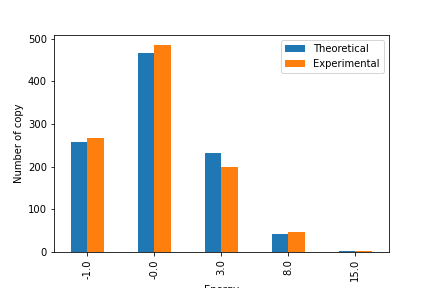
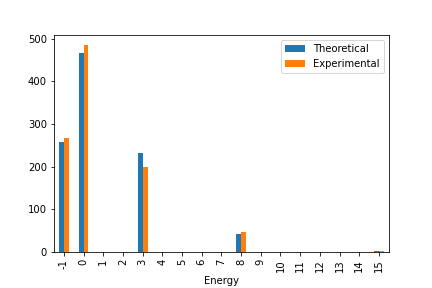
Add distribution information of task4

diff --git a/code/task4.py b/code/task4.py
@@ -14,7 +14,7 @@ from my_lib import *
 trials = 100
 copies = 1000
 a = 0.5
-x_arr = np.array([1, 1, 1, 1, 1, 1])
+# x_arr = np.array([1, 1, 1, 1, 1, 1])
 
 # w_arr = np.array([[0, 0.5, 0.5, 0.5, 0.5, 0.5], # 0 
 #                   [0.5, 0, -2, -2, -2, -2], # 1
@@ -23,13 +23,13 @@ x_arr = np.array([1, 1, 1, 1, 1, 1])
 #                   [0.5, -2, -2, -2, 0, -2],
 #                   [0.5, -2, -2, -2, -2, 0]
 #                   ])# 3
-w_arr = np.array([[0,  1,  1,  1,  1,  1], # 0 
-                  [1,  0, -2, -2, -2, -2], # 1
-                  [1, -2,  0, -2, -2, -2], # 2 
-                  [1, -2, -2,  0, -2, -2],
-                  [1, -2, -2, -2,  0, -2],
-                  [1, -2, -2, -2, -2,  0]
-                  ])
+# w_arr = np.array([[0,  1,  1,  1,  1,  1], # 0 
+#                   [1,  0, -2, -2, -2, -2], # 1
+#                   [1, -2,  0, -2, -2, -2], # 2 
+#                   [1, -2, -2,  0, -2, -2],
+#                   [1, -2, -2, -2,  0, -2],
+#                   [1, -2, -2, -2, -2,  0]
+#                   ])
 # x_arr = np.array([1, 1, 1, 1])
 
 # w_arr = np.array([[0, 1, 1, 1], # 0 
@@ -38,17 +38,17 @@ w_arr = np.array([[0,  1,  1,  1,  1,  1], # 0
 #                   [1, -2, -2, 0]
 #                   ])# 3
 
-# x_arr = np.array([1, 1, 1, 1, 1, 1, 1, 1])
+x_arr = np.array([1, 1, 1, 1, 1, 1, 1, 1])
 
-# w_arr = np.array([[0,  -1,  -1,  -1,  -1,  -1,  -1,  -1], # 0 
-#                   [-1,  0, -2, -3, -4, -2, -3, -4], # 1
-#                   [-1, -2,  0, -4, -5, -6, -1, -2], # 2 
-#                   [-1, -3, -4,  0, -1, -2, -3, -4],
-#                   [-1, -4, -5, -1,  0, -1, -2, -3],
-#                   [-1, -2, -6, -2, -1,  0, -1, -2],
-#                   [-1, -3, -1,  3, -2, -1,  0, -1],
-#                   [-1, -4, -2,  4, -3, -2, -1,  0]
-#                   ])# 
+w_arr = np.array([[0,  -1,  -1,  -1,  -1,  -1,  -1,  -1], # 0 
+                  [-1,  0, -2, -3, -4, -2, -3, -4], # 1
+                  [-1, -2,  0, -4, -5, -6, -1, -2], # 2 
+                  [-1, -3, -4,  0, -1, -2, -3, -4],
+                  [-1, -4, -5, -1,  0, -1, -2, -3],
+                  [-1, -2, -6, -2, -1,  0, -1, -2],
+                  [-1, -3, -1,  3, -2, -1,  0, -1],
+                  [-1, -4, -2,  4, -3, -2, -1,  0]
+                  ])# 
 
 test_list = []
 for i in range(copies):
@@ -102,7 +102,7 @@ for test in test_list:
 #     freq_tab[test.get_result(test.x_arr,test.n)] += 1
 
 df, A = test_list[0].report_energy(energy_tab, freq_tab, test_list[0].n, a, copies)
-E = np.arange(df['Energy'].min(), df['Energy'].max()+0.5, 1)
+E = np.arange(df['Energy'].min(), df['Energy'].max()+1, 0.5)
 N = boltzMan(A, a, E)
 
 # Plot Comparision graph
@@ -113,31 +113,50 @@ ax.set_xlabel("State(decimal)")
 ax.set_ylabel("Number of copy")
 plt.savefig('task4_compare_tri{}_Cop{}_a{}.png'.format(trials, copies, a))
 
-from scipy.interpolate import interp1d
-from scipy import interpolate
+
+
 # Plot histogram graph
+# Ignore state that has same energy
+mean = df.groupby(['Energy']).mean()
+plt.figure()
+mean.plot()
+
 # All data that have same energy
 all_th_ex = df.groupby(['Energy']).sum()
 plt.figure()
-ax = all_th_ex.plot(kind='bar')
+
+
+# from scipy import interpolate
+# from scipy.interpolate import interp1d
+# f1 = interp1d(all_th_ex.index, all_th_ex['Theoretical'],kind='linear')
+# df2 = pd.DataFrame()
+# new_index = np.arange(all_th_ex.index.min(),all_th_ex.index.max()+1)
+# df2['Theoretical'] = f1(new_index)
+
+# df2.index = new_index
+# ax2 = df2.plot(kind='bar')
+# df2.plot(ax=ax2)
+# ax = all_th_ex.plot(kind='bar')
+# all_th_ex.plot(ax = ax)
+
+new = all_th_ex.reindex(range(int(all_th_ex.index.min()),int(all_th_ex.index.max()+1)), fill_value=0)
+new.plot(kind='bar')
 ax.set_xlabel("Energy")
 ax.set_ylabel("Number of copy")
 
-th = interpolate.splev(all_th_ex.index, all_th_ex['Theoretical'])
-
-df2 = pd.DataFrame()
-new_index = np.arange(all_th_ex.index.min(),all_th_ex.index.max())
-df2['Theoretical'] = th(new_index)
-df2.index = new_index
-df2.plot.line()
-
-
-
-all_th_ex.plot(xlim=(all_th_ex.index.min(), all_th_ex.index.max()))
 plt.savefig('task4_histo__tri{}_Cop{}_a{}.png'.format(trials, copies, a))
 
 plt.figure()
+ax2=all_th_ex.plot(xlim=(all_th_ex.index.min(), all_th_ex.index.max()))
+ax2.set_xlabel("Energy")
+ax2.set_ylabel("Number of copy")
+plt.savefig('task4_histo_graph_tri{}_Cop{}_a{}.png'.format(trials, copies, a))
+
+plt.figure()
 plt.plot(E, N)
+plt.suptitle('Boltzman Distribution Graph (A*exp(-aE))')
+plt.xlabel('Energy')
+plt.ylabel('The number of copy')
 
 
 morn_df = test_list[0].report_mornitor(mornitor_tab, test_list[0].n)

diff --git a/README.md b/README.md
@@ -181,7 +181,7 @@ Procedure
 As the result, the energy of RNN always decreases when the neuron updates its state. The convergence state will has a minimum energy. 
 
 ## **Task 4 - RNNs with Boltzmann's Distribution**
-[Boltzmann's Distribution](https://en.wikipedia.org/wiki/Boltzmann_distribution) is can be used measure the number of molecules that have their energy between some amounts of energy. This distribution can be applied to many things included RNN. Gibbs copies is the technique to makes copies of the same RNN.
+[Boltzmann's Distribution](https://en.wikipedia.org/wiki/Boltzmann_distribution) is can be used to measure the number of molecules that have their energy between some amounts of energy. This distribution can be applied to many things included RNN. Gibbs copies is the technique to makes copies of the same RNN.
 ![task4_detail](images/task4_detail.jpg)  
 [Source code](code/task4.py)
 
@@ -190,44 +190,55 @@ Procedure
 1. Make a copy of RNN
 1. Update the state of neuron 1 by 1 for each copy
 1. The experimental result: Collect the number of copies in each state
-1. The theoretical result: Caculate follows Boltzman's distribution for all possible states.
+1. The theoretical result: Calculate follows Boltzman's distribution for all possible states.
 
 #### **Constant Parameters**
 | Input(x) | weight(w) |
 | :----: | :-------|
 |<font size="2"><pre>[1, 1, 1, 1, 1, 1]</pre></font> |<font size="2"><pre>[0,  1,  1,  1,  1,  1],#0<br/>[1,  0, -2, -2, -2, -2],#1<br/>[1, -2,  0, -2, -2, -2],#2<br/>[1, -2, -2,  0, -2, -2],#3<br/>[1, -2, -2, -2,  0, -2],#4<br/>[1, -2, -2, -2, -2,  0] #5</pre></font> |
 
+#### ***<p align="center">Energy table</p>***
+We compute the energy of the RNN in each state and show in this table. After update all of RNNs for many times, we check state of all copies and show in this table, so we can know that how many copies in each state.
 #### **Test Results**
-#### ***<p align="center">Energy table: To shows the energy in each state</p>***
-
 | # of Trials | # of Copies | Gain(a) | Energy table
 | :---- | :------- | :------- | :----: |
 | 1000 | 1000 | 0.5 |<img src="images/task4_1000x1000_table.jpg" width="350"> |
-#### ***<p align="center">Comparing graph: To compare the theoretical and the experimental result</p>***
-
+#### ***<p align="center">Distribution graph</p>***
+This graph is to check the distribution of the number of copies that have their energy in some amounts of energy. From the Boltzmann's theory, the distribution should follows `A*exp(-aE)` which show in the figture below.  
+<img src="images/task4_Boltzman_base.png" width="300">
+#### **Test Results**
 ##### **Adjust Trials and Copies**
-| # of Trials | # of Copies | Gain(a) | Histogram of energy | Comparison graph
-| :---- | :------- | :-------: | :----: | :----: |
-| 100 | 100 | 0.5 | ![task4_histo__tri100_Cop100_a0.5](images/task4_histo__tri100_Cop100_a0.5.png) | ![task4_compare_tri100_Cop100_a0.5](images/task4_compare_tri100_Cop100_a0.5.png) 
-| 100 | 1000 | 0.5 |![task4_histo__tri100_Cop1000_a0.5](images/task4_histo__tri100_Cop1000_a0.5.png) | ![task4_compare_tri100_Cop1000_a0.5](images/task4_compare_tri100_Cop1000_a0.5.png) 
-| 1000 | 1000 | 0.5 |![task4_histo__tri1000_Cop1000_a0.5](images/task4_histo__tri1000_Cop1000_a0.5.png) | ![task4_compare_tri1000_Cop1000_a0.5](images/task4_compare_tri1000_Cop1000_a0.5.png)
+| Distribution of energy (graph) | Distribution of energy (Histogram)  | The number of a copy in each state
+| :---- | :------- | :-------: |
+|Trials = 100, Copies =  100, Gain(a) = 0.5| | |
+| ![task4_histo_graph_tri100_Cop100_a0.5](images/task4_histo_graph_tri100_Cop100_a0.5.png) | ![task4_histo__tri100_Cop100_a0.5](images/task4_histo__tri100_Cop100_a0.5.png) | ![task4_compare_tri100_Cop100_a0.5](images/task4_compare_tri100_Cop100_a0.5.png) 
+|Trials = 100, Copies = 1000, Gain(a) = 0.5| | |
+| ![task4_histo_graph_tri100_Cop1000_a0.5](images/task4_histo_graph_tri100_Cop1000_a0.5.png)  |![task4_histo__tri100_Cop1000_a0.5](images/task4_histo__tri100_Cop1000_a0.5.png) | ![task4_compare_tri100_Cop1000_a0.5](images/task4_compare_tri100_Cop1000_a0.5.png) 
+|Trials = 1000, Copies = 1000, Gain(a) = 0.5| | |
+| ![task4_histo_graph_tri1000_Cop1000_a0.5](images/task4_histo_graph_tri1000_Cop1000_a0.5.png) |![task4_histo__tri1000_Cop1000_a0.5](images/task4_histo__tri1000_Cop1000_a0.5.png) | ![task4_compare_tri1000_Cop1000_a0.5](images/task4_compare_tri1000_Cop1000_a0.5.png)
 
 ##### **Adjust gain**
-| # of Trials | # of Copies | Gain(a) | Histogram of energy | Comparison graph
-| :---- | :------- | :-------: | :----: | :----: |
-| 1000 | 1000 | 0.2 |![task4_histo__tri1000_Cop1000_a0.2](images/task4_histo__tri1000_Cop1000_a0.2.png) | ![task4_compare_tri1000_Cop1000_a0.2](images/task4_compare_tri1000_Cop1000_a0.2.png) 
-| 1000 | 1000 | 1.0 |![task4_histo__tri1000_Cop1000_a1.0](images/task4_histo__tri1000_Cop1000_a1.0.png) | ![task4_compare_tri1000_Cop1000_a1.0](images/task4_compare_tri1000_Cop1000_a1.0.png) 
-| 1000 | 1000 | 1.5 |![task4_histo__tri1000_Cop1000_a1.5](images/task4_histo__tri1000_Cop1000_a1.5.png) | ![task4_compare_tri1000_Cop1000_a1.5](images/task4_compare_tri1000_Cop1000_a1.5.png)
+| Distribution of energy (graph) | Distribution of energy (Histogram)  | The number of a copy in each state
+| :---- | :------- | :-------: |
+|Trials = 1000, Copies =  1000, Gain(a) = 0.2| | |
+| ![task4_histo_graph_tri1000_Cop1000_a0.2](images/task4_histo_graph_tri1000_Cop1000_a0.2.png) | ![task4_histo__tri1000_Cop1000_a0.2](images/task4_histo__tri1000_Cop1000_a0.2.png) | ![task4_compare_tri1000_Cop1000_a0.2](images/task4_compare_tri1000_Cop1000_a0.2.png) 
+|Trials = 1000, Copies = 1000, Gain(a) = 1.0| | |
+| ![task4_histo_graph_tri1000_Cop1000_a1.0](images/task4_histo_graph_tri1000_Cop1000_a1.0.png)  |![task4_histo__tri1000_Cop1000_a1.0](images/task4_histo__tri1000_Cop1000_a1.0.png) | ![task4_compare_tri1000_Cop1000_a1.0](images/task4_compare_tri1000_Cop1000_a1.0.png) 
+|Trials = 1000, Copies = 1000, Gain(a) = 1.5| | |
+| ![task4_histo_graph_tri1000_Cop1000_a1.5](images/task4_histo_graph_tri1000_Cop1000_a1.5.png) |![task4_histo__tri1000_Cop1000_a1.5](images/task4_histo__tri1000_Cop1000_a1.5.png) | ![task4_compare_tri1000_Cop1000_a1.5](images/task4_compare_tri1000_Cop1000_a1.5.png)
 
 #### ***<p align="center">Try with author's RNN defined in Task 3</p>***
-| # of Trials | # of Copies | Gain(a) | Histogram of energy | Comparison graph
-| :---- | :------- | :------- | :----: | :----: |
-| 100 | 1000 | 0.5 |![task4_histo__tri100_Cop1000_a0.5_user](images/task4_histo__tri100_Cop1000_a0.5_user.png) |![task4_compare_tri100_Cop1000_a0.5_user](images/task4_compare_tri100_Cop1000_a0.5_user.png) 
+| Distribution of energy (graph) | Distribution of energy (Histogram)  | The number of a copy in each state
+| :---- | :------- | :-------: |
+|Trials = 100, Copies =  1000, Gain(a) = 0.5| | |
+| ![task4_histo_graph_tri100_Cop1000_a0.5_user](images/task4_histo_graph_tri100_Cop1000_a0.5_user.png) |![task4_histo__tri100_Cop1000_a0.5_user](images/task4_histo__tri100_Cop1000_a0.5_user.png) |![task4_compare_tri100_Cop1000_a0.5_user](images/task4_compare_tri100_Cop1000_a0.5_user.png) 
 
 <p align='center'><img src="images/task4_100x1000_user_table.png"></p>
 
 #### **Summary**
-As the result, the experimental result and the theoretical result is going to the same way. When we increase the number of copies, the result is more closer. The increasing of the number of trials also effects the result, but it not that much.  
+From the distribution of a energy graph, when the gain is small number, the result is different from `A*exp(-aE)` graph. The test results are less number of copies in the beginning. From the energy table, the lowest energy (-1.0) will has the most number of copies, but the state that has this energy is not enough, so the number of copies in these amounts of energy are not maximum. If we check only the number of copies in energy by ignore the state that has same energy, then the result from testing will follow `A*exp(-aE)` as shown in the figure below.  In the other hand, if the gain is large number, the result is nearly to `A*exp(-aE)`  
+<img src="images/task4_distri_mean.png" width="250">   
+The experimental result and the theoretical result is going to the same way. When we increase the number of copies, the result is more closer. The increasing of the number of trials also effects the result, but it not that much.  
 The Changing of gain also effects to the result. The more gain makes the result closer, but the distribution of result will be decreased.  
 For my opinion, the most suitable parameters is ``` Trials = 1000, Copies = 1000, Gain = 0.5```  
 As the result of energy, the most of experimental result will have the lowest energy. Thus, we can predict the equilibrium state from an energy. If the energy is low, it is more likely to be equilibrium state.
@@ -251,7 +262,7 @@ As the result of energy, the most of experimental result will have the lowest en
 | 1.0 | ![task4_equi_10_TAB](images/task4_equi_10_TAB.png) | ![task4_equi_1.0](images/task4_equi_1.0.png) |
 | 5.0 | ![task4_equi_50_TAB](images/task4_equi_50_TAB.png) | ![task4_equi_5.0](images/task4_equi_5.0.png) |
 
-⭐ This value shows the number of copy which changes to the new state. 
+⭐ This value shows the number of copies which changes to the new state. 
 
 #### **Summary**
 As the result, many copies change their state in the starting time. After updating around 10-20 times, the number of changing decreases a lot. After that, this number just changes a little bit. Thus, we can conclude that when this number is not changed too much comparing to previous times, then this system reaches the equilibrium.  
